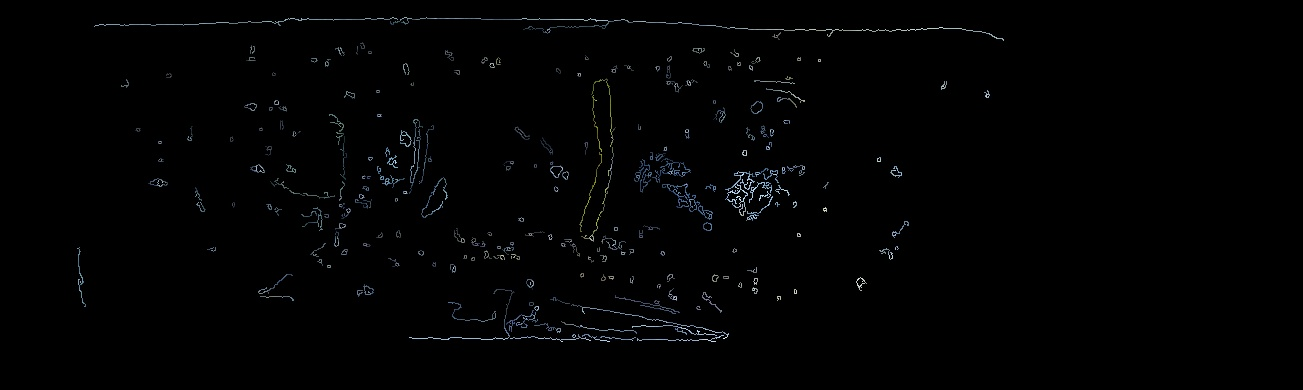
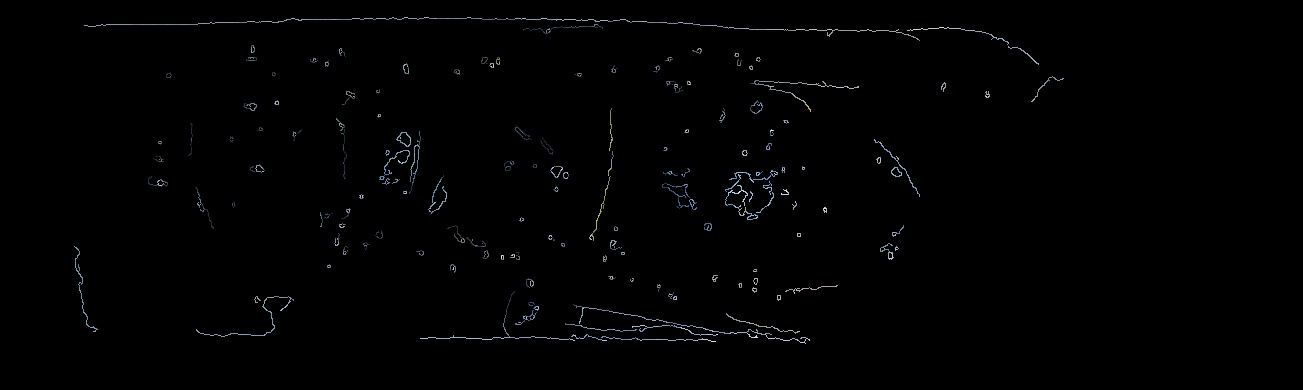
medianBlur

diff --git a/ProjetFrelon/src/test.java b/ProjetFrelon/src/test.java
@@ -10,23 +10,39 @@ public class test {
 		System.loadLibrary(Core.NATIVE_LIBRARY_NAME);
 
 		// Charger la première image de test
+		//String imagePath = "ProjetFrelon/data/Trap/hornet01.jpg";
 		String imagePath = "ProjetFrelon/data/Trap/hornet01.jpg";
 
 		Mat image = Imgcodecs.imread(imagePath);
 		
-		
+		/***************************************
+		 * 		Partie Pré-traitement          *
+		 ***************************************/
 
+		
+		
+		
+		
+		/***************************************
+		 * 		Partie Edge Detection          *
+		 ***************************************/
+		
+		
 		// Creating an empty matrices to store edges, source, destination
+		Mat contraste = new Mat(image.rows(), image.cols(), image.type());
 		Mat gray = new Mat(image.rows(), image.cols(), image.type());
 		Mat edges = new Mat(image.rows(), image.cols(), image.type());
 		Mat dst = new Mat(image.rows(), image.cols(), image.type(), new Scalar(0));
-
+		
 		// Converting the image to Gray
 		Imgproc.cvtColor(image, gray, Imgproc.COLOR_RGB2GRAY);
 		
+		Imgproc.equalizeHist(gray, contraste);
+		
 		// Blurring the image
-		Imgproc.blur(gray, edges, new Size(3, 3));
-		//Imgcodecs.imwrite("ProjetFrelon/data/Results/blur.jpg", edges);
+		Imgproc.medianBlur(contraste, edges, 3);
+		//Imgproc.blur(gray, edges, new Size(3, 3));
+		Imgcodecs.imwrite("ProjetFrelon/data/Results/blur.jpg", edges);
 		
 		// Detecting the edges
 		Imgproc.Canny(edges, edges, 100, 100 * 3);
@@ -37,7 +53,7 @@ public class test {
 		
 		
 		// Créer l'image modifiée
-		Imgcodecs.imwrite("ProjetFrelon/data/Results/detected_wings_wBlurr.jpg", dst);
+		Imgcodecs.imwrite("ProjetFrelon/data/Results/detected_wings.jpg", dst);
 		Imgcodecs.imwrite("ProjetFrelon/data/Results/gray.jpg", gray);
 
 	}
